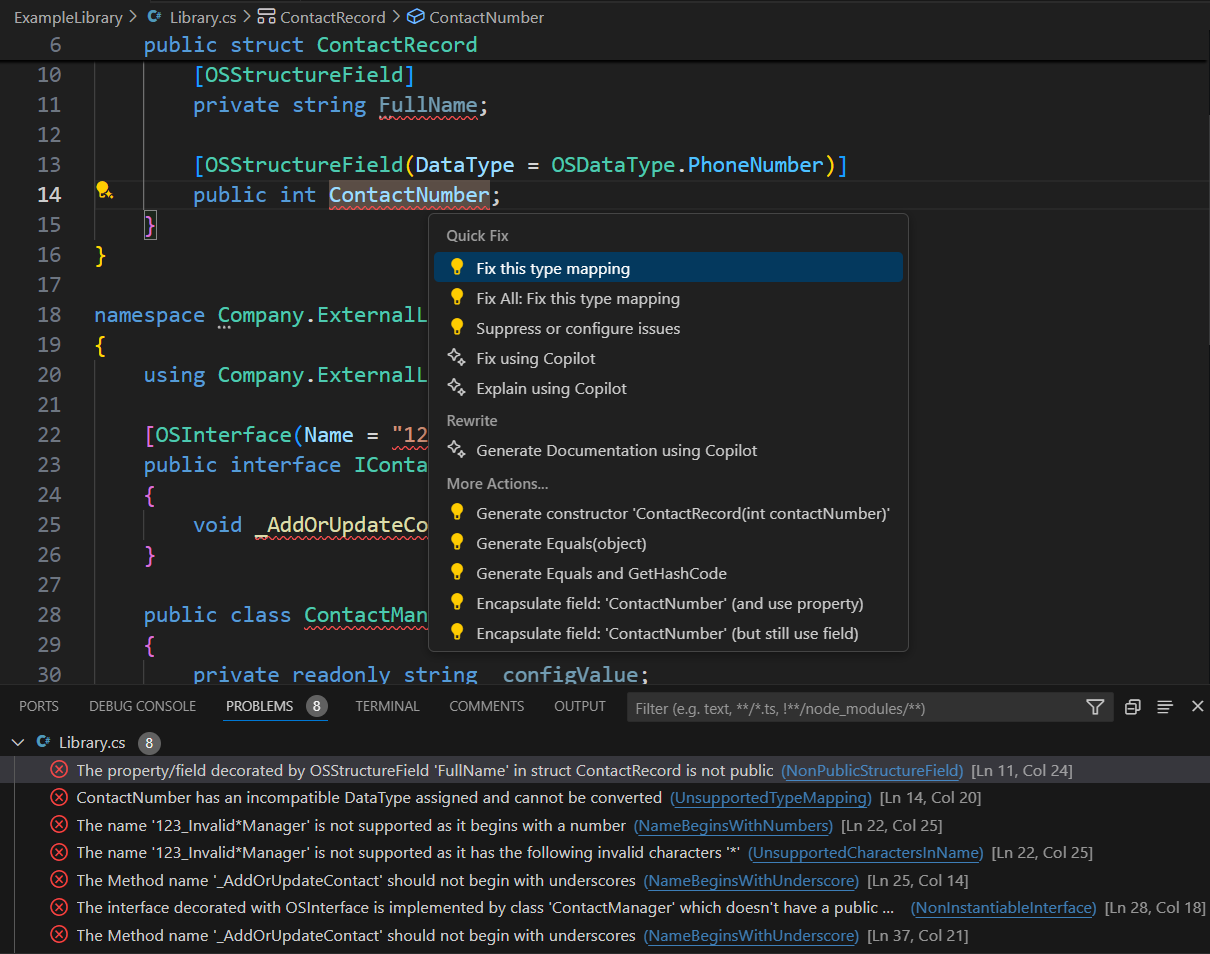
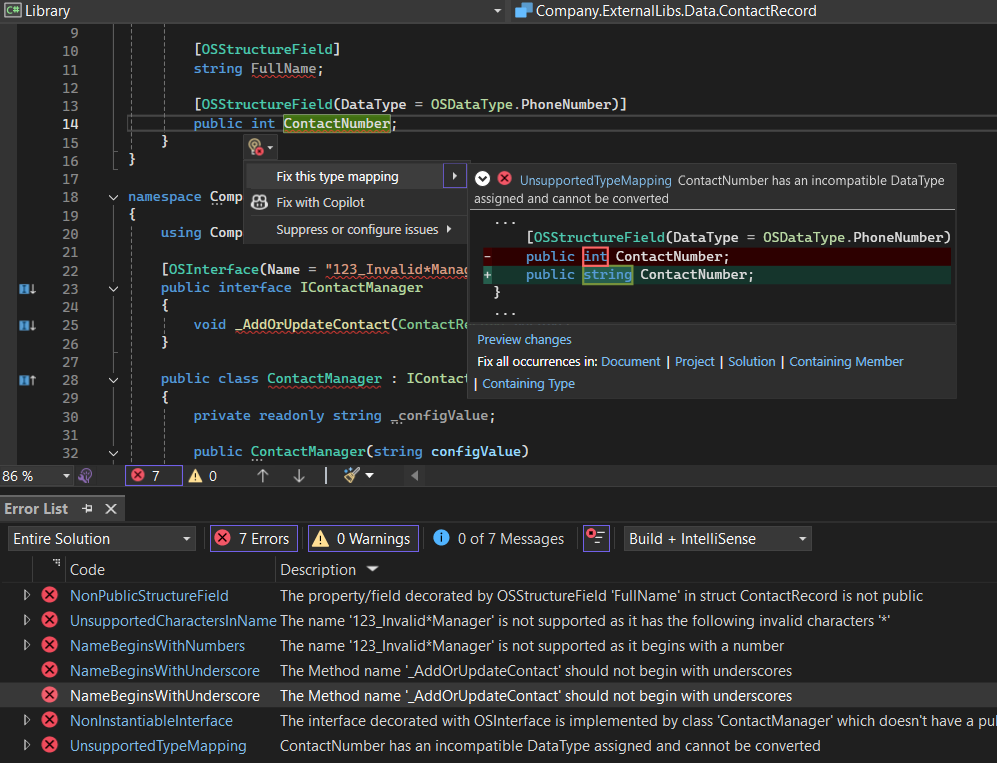
switch to local enum

Changed region(s): [[0.0, 0.0, 1.0, 0.9948], [0.995, 0.6029, 1.0, 0.633]]

diff --git a/src/CustomCode-Analyzer/Analyzer.cs b/src/CustomCode-Analyzer/Analyzer.cs
@@ -7,7 +7,6 @@ using Microsoft.CodeAnalysis;
 using Microsoft.CodeAnalysis.CSharp.Syntax;
 using Microsoft.CodeAnalysis.Diagnostics;
 using Microsoft.CodeAnalysis.Text;
-using OutSystems.ExternalLibraries.SDK;
 using static CustomCode_Analyzer.AttributeNames;
 
 namespace CustomCode_Analyzer
@@ -861,21 +860,19 @@ namespace CustomCode_Analyzer
             if (
                 (hasOSInterfaceAttribute || implementsOSInterface)
                 && methodSymbol.Name.StartsWith("_", StringComparison.Ordinal)
+                && syntaxRef.GetSyntax() is MethodDeclarationSyntax methodDeclSyntax
             )
             {
-                if (syntaxRef.GetSyntax() is MethodDeclarationSyntax methodDeclSyntax)
-                {
-                    var identifierLocation = methodDeclSyntax.Identifier.GetLocation();
+                var identifierLocation = methodDeclSyntax.Identifier.GetLocation();
 
-                    context.ReportDiagnostic(
-                        Diagnostic.Create(
-                            NameBeginsWithUnderscoreRule,
-                            identifierLocation,
-                            "Method",
-                            methodSymbol.Name
-                        )
-                    );
-                }
+                context.ReportDiagnostic(
+                    Diagnostic.Create(
+                        NameBeginsWithUnderscoreRule,
+                        identifierLocation,
+                        "Method",
+                        methodSymbol.Name
+                    )
+                );
             }
 
             // Only check for by-ref parameters in the OSInterface itself (not the implementation)
@@ -1388,14 +1385,20 @@ namespace CustomCode_Analyzer
             if (type is null || dataType.Value is null)
                 return false;
 
-            // Convert the numeric underlying value to the OSDataType enum *name*,
+            // Convert the numeric underlying value to the OSDataType enum name,
             var numericValue = (int)dataType.Value;
-            var enumName = Enum.GetName(typeof(OSDataType), numericValue);
+            var enumName = Enum.GetName(typeof(TypeMappingHelper.OSDataType), numericValue);
 
             // If we can't map the numeric value to a valid OSDataType name
             if (string.IsNullOrEmpty(enumName))
             {
                 return true;
+            }
+
+            // Special type
+            if (enumName == nameof(TypeMappingHelper.OSDataType.InferredFromDotNetType))
+            {
+                return false;
             }
 
             // Now ask TypeMappingHelper for the expected .NET type name

diff --git a/tests/CustomCode-Analyzer.Tests/AnalyzerTests.cs b/tests/CustomCode-Analyzer.Tests/AnalyzerTests.cs
@@ -921,7 +921,7 @@ namespace TestNamespace
             );
         }
 
-        // https://www.outsystems.com/tk/redirect?g=OS-ELG-MODL-05014 - TODO: implement
+        // https://www.outsystems.com/tk/redirect?g=OS-ELG-MODL-05014 - not implementing
 
         // --------------- UnsupportedParameterTypeRule (OS-ELG-MODL-05015) --------
 
@@ -1297,6 +1297,24 @@ public struct TestStruct
             };
 
             await VerifyDiagnosticAndFix(source, expectedFixed, expectedDiagnostics);
+        }
+
+        [TestMethod]
+        public async Task UnsupportedTypeMappingRule_InGlobalScope_InferredFromDotNetType_NoDiagnostic()
+        {
+            var source = @"
+[OSStructure]
+public struct TestStruct
+{
+    [OSStructureField(DataType = OSDataType.InferredFromDotNetType)]
+    public int SomeValue; // Should not raise any diagnostic with InferredFromDotNetType
+}";
+
+            await CSharpAnalyzerVerifier<Analyzer>.VerifyAnalyzerAsync(
+                source,
+                TestContext,
+                skipSDKreference: false
+            );
         }
 
         // --------------- MissingPublicImplementationRule (OS-ELG-MODL-05018) --------

diff --git a/src/CustomCode-Analyzer/Helpers/TypeMappingHelper.cs b/src/CustomCode-Analyzer/Helpers/TypeMappingHelper.cs
@@ -11,6 +11,26 @@ namespace CustomCode_Analyzer
     public static class TypeMappingHelper
     {
         /// <summary>
+        /// A local copy of the OSDataType enum
+        /// </summary>
+        internal enum OSDataType
+        {
+            InferredFromDotNetType,
+            Text,
+            Integer,
+            LongInteger,
+            Decimal,
+            Boolean,
+            DateTime,
+            Date,
+            Time,
+            PhoneNumber,
+            Email,
+            BinaryData,
+            Currency
+        }
+
+        /// <summary>
         /// Maps <c>OSDataType</c> enum <b>names</b> (e.g., "Text", "Integer")
         /// to a tuple containing:
         /// <list type="bullet">

diff --git a/README.md b/README.md
@@ -10,7 +10,7 @@
 
 ![](https://github.com/jonathanalgar/CustomCode-Analyzer/blob/main/screenshot.png?raw=true)
 
-⚡ _Screenshot showing the development of an ODC External Library in Visual Studio Code. The **ODC Custom Code Analyzer** flags several rule violations in the Problems panel. A related Quick Fix menu is open for one rule violation, offering to "Fix this type mapping" so the field correctly matches its `OSDataType.PhoneNumber`._ ⚡ 
+⚡ _Screenshot showing the development of an ODC External Library in Visual Studio. The **ODC Custom Code Analyzer** flags several rule violations in the Problems panel. A related Quick Fix menu is open for one rule violation, offering to "Fix this type mapping" so the field correctly matches its `OSDataType.PhoneNumber`. You can get identical functionality in Visual Studio Code and Rider._  ⚡ 
 
 ## Overview
 
